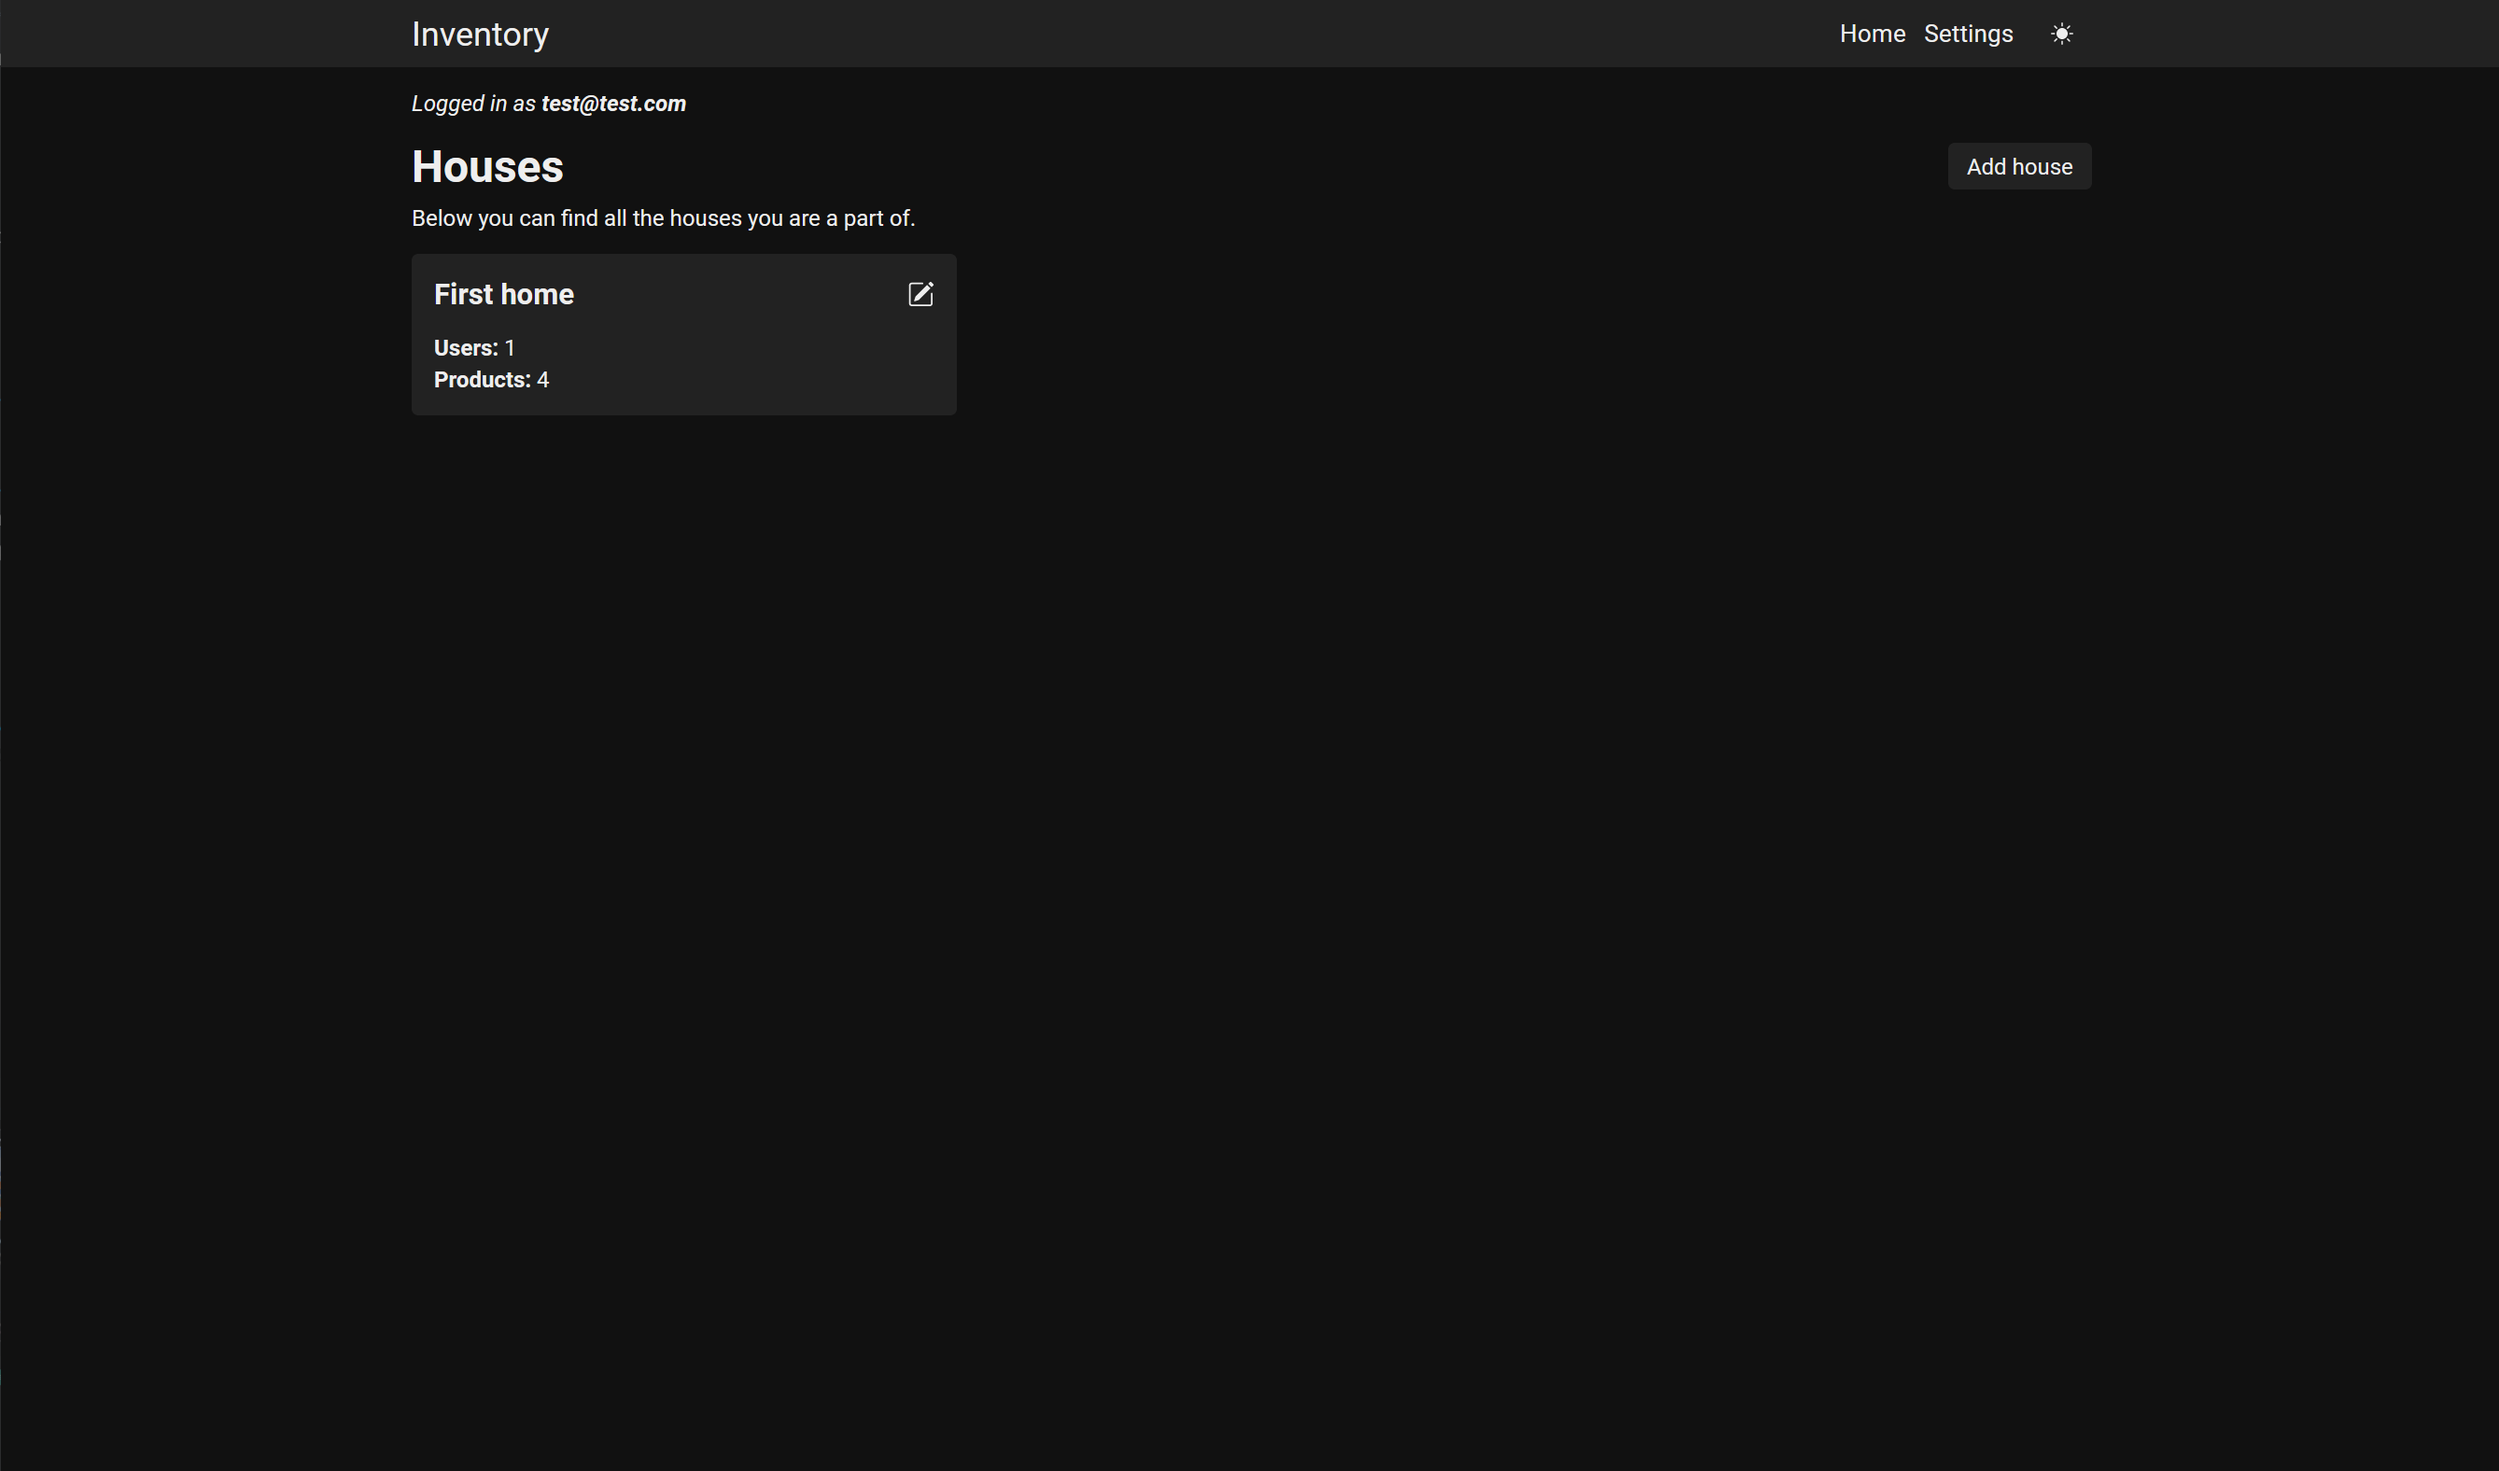
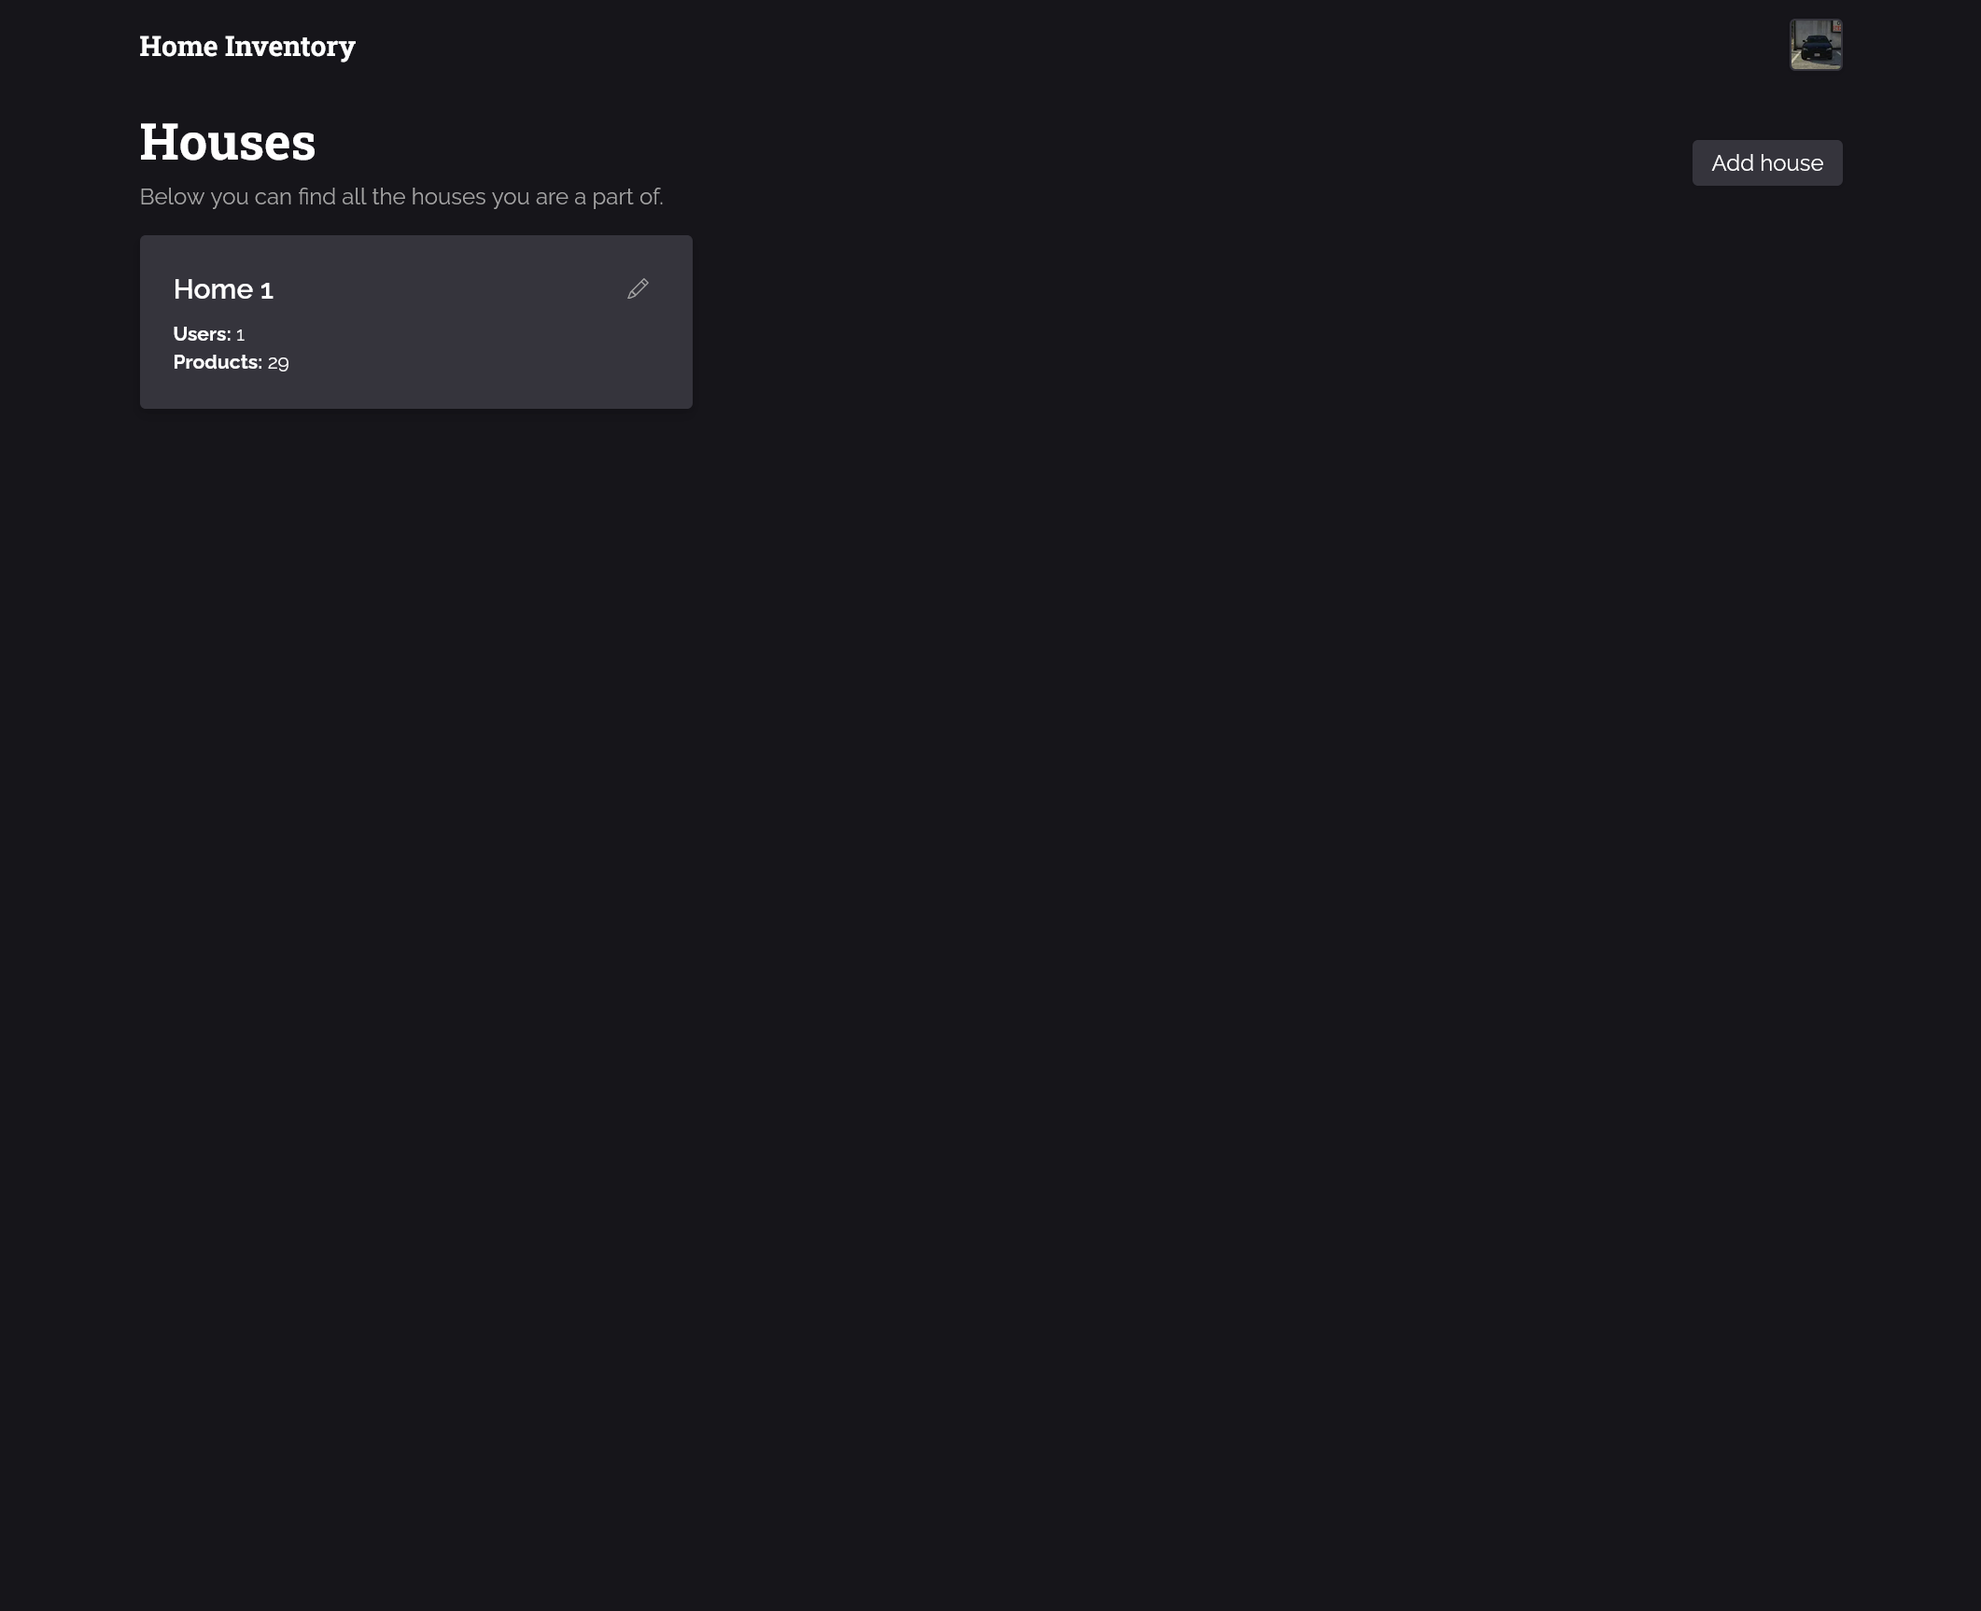
:rocket: feat: color fixes & update screenshots

diff --git a/src/pages/login.tsx b/src/pages/login.tsx
@@ -1,5 +1,6 @@
 import { Button } from "components/ui/Button";
 import { signIn } from "next-auth/react";
+import Head from "next/head";
 import { Google } from "react-bootstrap-icons";
 
 export default function LoginPage() {
@@ -9,15 +10,19 @@ export default function LoginPage() {
 
   return (
     <div className="p-10">
+      <Head>
+        <title>Home Inventory - Login</title>
+      </Head>
+
       <header>
         <h1 className="text-4xl font-serif">Sign In</h1>
-        <p className="mt-3 text-neutral-400">
+        <p className="mt-3 text-neutral-300">
           Sign in to continue. Once authenticated, you can manage your houses, products and more.
         </p>
       </header>
 
       <div className="mt-6">
-        <Button variant="accent" onClick={handleLoginClick} className="flex items-center gap-2">
+        <Button onClick={handleLoginClick} className="flex items-center gap-2">
           <Google />
           Sign in with Google
         </Button>

diff --git a/src/pages/[houseId]/settings/categories.tsx b/src/pages/[houseId]/settings/categories.tsx
@@ -57,7 +57,7 @@ export default function ManageCategoriesPage() {
       <header className="flex items-center justify-between mt-4 mb-5">
         <div>
           <h1 className="text-3xl md:text-4xl font-bold font-serif">Categories</h1>
-          <p className="mt-3 font-medium text-neutral-400">
+          <p className="mt-3 font-medium text-neutral-300">
             A list of categories that can be appended to products.
           </p>
         </div>
@@ -66,7 +66,7 @@ export default function ManageCategoriesPage() {
       </header>
 
       {categoriesQuery.data.items.length <= 0 ? (
-        <p className="text-neutral-400">This house does not have any categories created yet.</p>
+        <p className="text-neutral-300">This house does not have any categories created yet.</p>
       ) : (
         <Table
           query={categoriesQuery}

diff --git a/src/pages/[houseId]/settings/users.tsx b/src/pages/[houseId]/settings/users.tsx
@@ -59,7 +59,7 @@ export default function ManageUsersPage() {
       <header className="flex items-center justify-between mt-4 mb-5">
         <div>
           <h1 className="text-3xl md:text-4xl font-bold font-serif">Users</h1>
-          <p className="mt-3 font-medium text-neutral-400">
+          <p className="mt-3 font-medium text-neutral-300">
             A list of users that are connected with the current house.
           </p>
         </div>
@@ -68,7 +68,7 @@ export default function ManageUsersPage() {
       </header>
 
       {usersQuery.data.items.length <= 0 ? (
-        <p className="text-neutral-400">This house does not have any users connected yet.</p>
+        <p className="text-neutral-300">This house does not have any users connected yet.</p>
       ) : (
         <Table
           query={usersQuery}

diff --git a/src/pages/index.tsx b/src/pages/index.tsx
@@ -32,12 +32,12 @@ export default function HomePage() {
       <header className="flex flex-col md:flex-row md:items-center justify-between mt-4">
         <div>
           <h1 className="text-3xl md:text-4xl font-bold font-serif">Houses</h1>
-          <p className="mt-2 text-neutral-400">
+          <p className="mt-2 text-neutral-300">
             Below you can find all the houses you are a part of.
           </p>
         </div>
 
-        <Button variant="accent" className="mt-3 md:mt-0 w-fit" onClick={() => setIsOpen(true)}>
+        <Button className="mt-3 md:mt-0 w-fit" onClick={() => setIsOpen(true)}>
           Add house
         </Button>
       </header>

diff --git a/src/components/table/filters/TableFilters.tsx b/src/components/table/filters/TableFilters.tsx
@@ -55,7 +55,7 @@ export function TableFilters({ query, filterTypes, filters, setFilters }: Props)
             alignOffset={0}
             trigger={
               <Button size="xxs" className="flex items-center gap-1">
-                <span className="font-medium">{filter.name}</span>
+                <span className="font-medium">{filter.name.split(".")[0]}</span>
                 <span className="">{filter.type}</span>
                 <span className="font-medium">{filter.content?.toString()}</span>
                 <ChevronDown className="w-3 h-3" />

diff --git a/src/components/ui/Button.tsx b/src/components/ui/Button.tsx
@@ -8,7 +8,6 @@ export type ButtonProps = JSX.IntrinsicElements["button"] & {
 };
 
 export const buttonVariants = {
-  accent: "bg-accent enabled:hover:brightness-110 transition shadow-sm text-black",
   default: "bg-secondary enabled:hover:brightness-110 transition shadow-sm text-white",
   dropdown: "bg-tertiary enabled:hover:bg-secondary transition shadow-sm text-white",
   danger: "bg-red-800 enabled:hover:bg-red-700 transition shadow-sm text-white",

diff --git a/src/components/table/Table.tsx b/src/components/table/Table.tsx
@@ -86,7 +86,7 @@ export function Table<TData extends RowData>({
       ) : null}
 
       {(options.filters?.length ?? 0) >= 1 && data.length <= 0 ? (
-        <p className="text-neutral-400">
+        <p className="text-neutral-300">
           No results found with the selected filters. Please use a different query.
         </p>
       ) : (

diff --git a/src/pages/[houseId]/index.tsx b/src/pages/[houseId]/index.tsx
@@ -93,7 +93,7 @@ export default function HousePage() {
         </div>
       </div>
 
-      <p className="text-neutral-400 mt-10">More info soon...</p>
+      <p className="text-neutral-700 mt-10">More info soon...</p>
 
       <Modal isOpen={isOpen} onOpenChange={() => setIsOpen(false)}>
         <Modal.Title>Edit House</Modal.Title>

diff --git a/docs/SCREENSHOTS.md b/docs/SCREENSHOTS.md
@@ -6,6 +6,10 @@
 
 ![houses](./screenshots/houses.png)
 
+## Add house
+
+![add-house](./screenshots/add-house.png)
+
 ## Home page
 
 ![home-index](./screenshots/home-index.png)
@@ -18,14 +22,14 @@
 
 ![add-product](./screenshots/add-product.png)
 
-## Manage product modal
-
-![manage-product](./screenshots/manage-product.png)
-
 ## Sign In
 
 ![login](./screenshots/login.png)
 
-## Register
+## Manage Users
 
-![register](./screenshots/register.png)
+![manage-users](./screenshots/users.png)
+
+## Manage Categories
+
+![manage-categories](./screenshots/categories.png)
